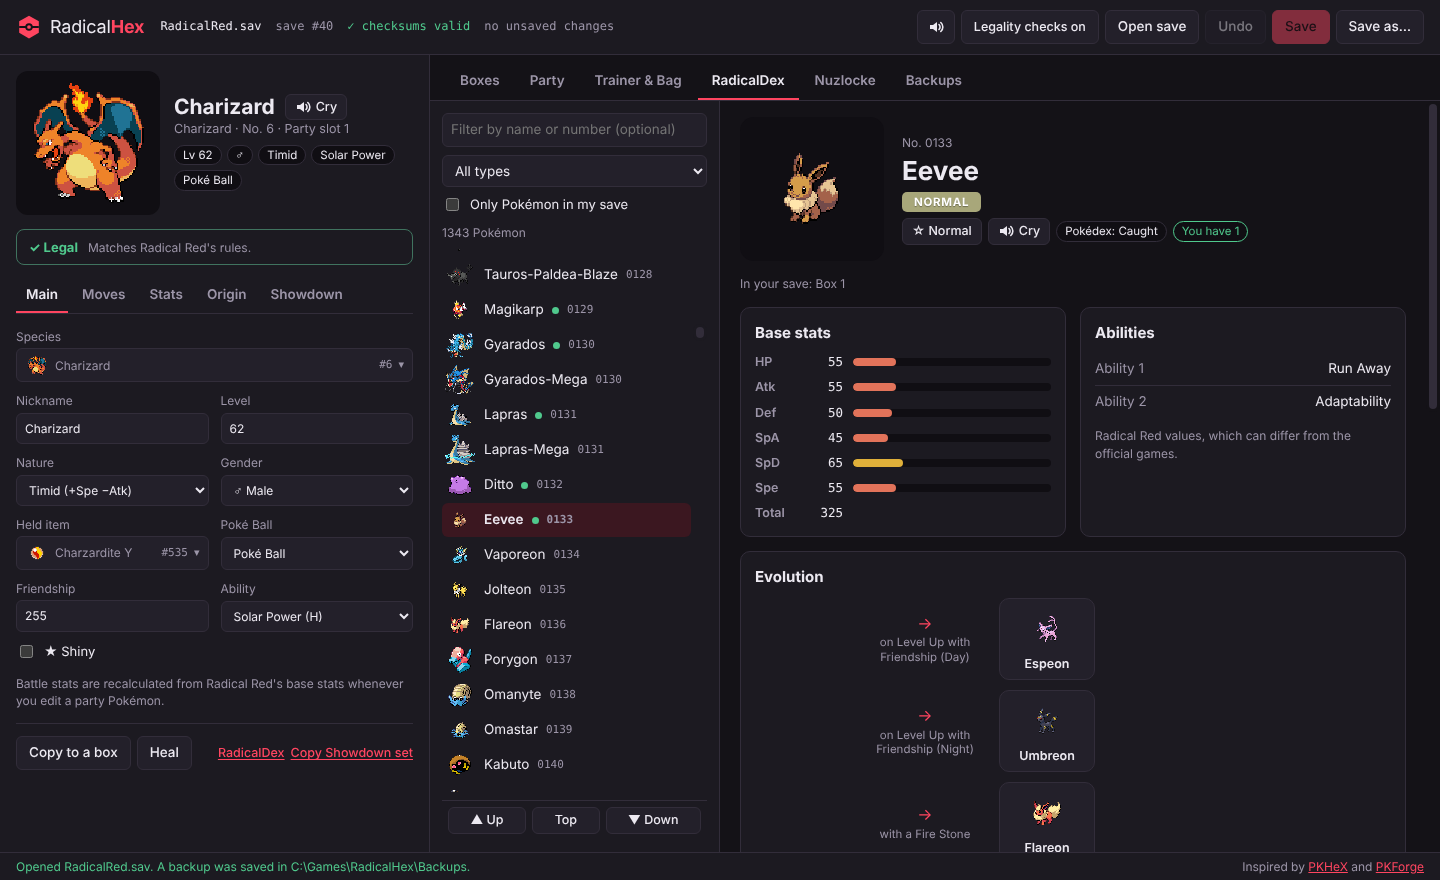
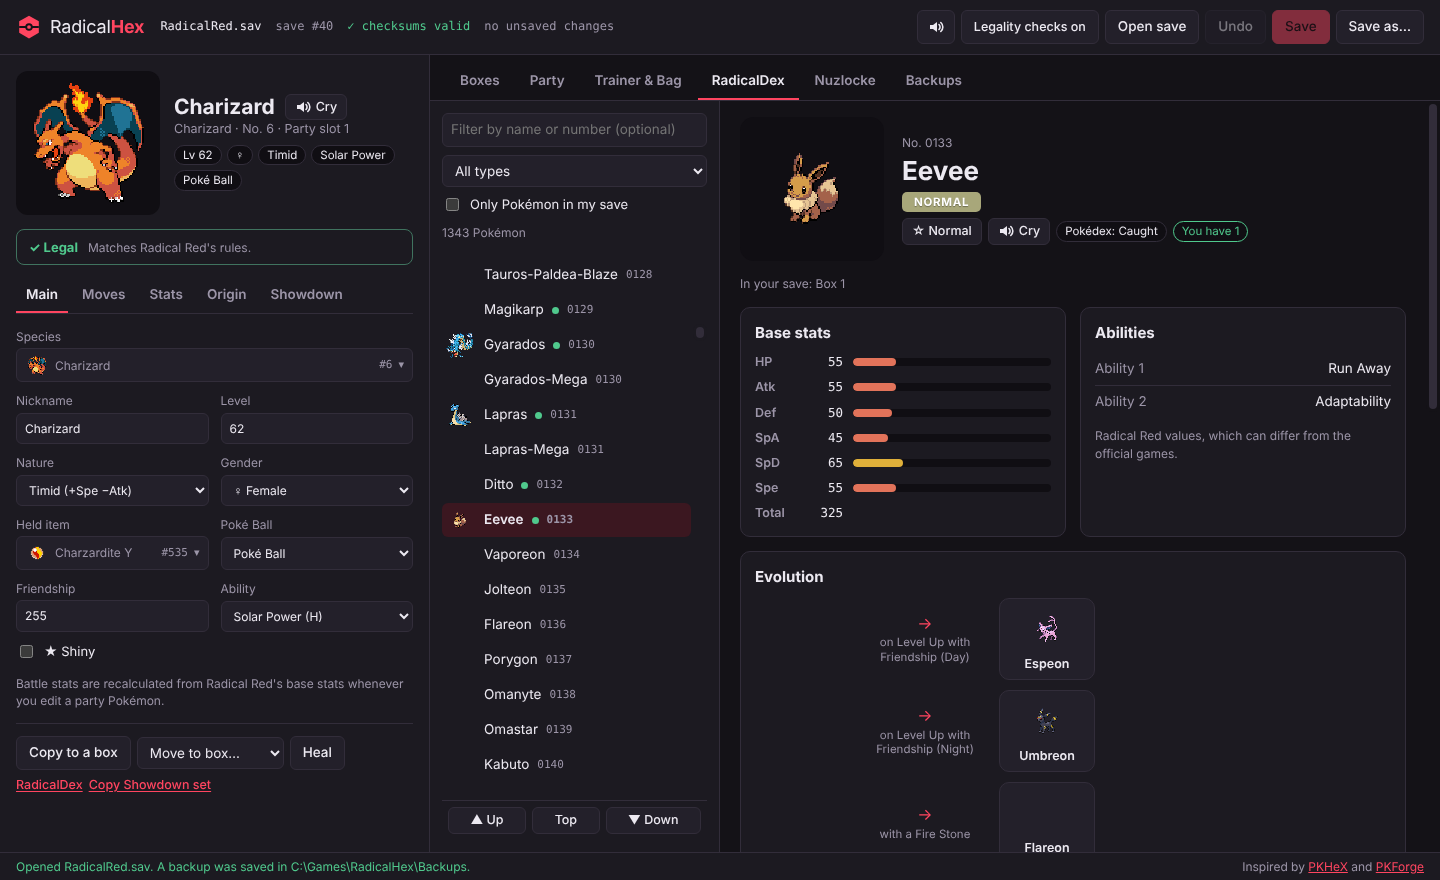
v1.0.7: add to the party, move between boxes and the party
- Click an empty party slot to add a Pokémon straight to the party
- "Move to party" withdraws a box Pokémon to the end of the party like the game does (full HP and PP, no status, stats calculated)
- "Move to box" sends a box Pokémon to another box, or deposits a party Pokémon (the rest of the party moves up); the last non-egg Pokémon has to stay, and full boxes can't be picked
- The save guard now also checks that every slot under the party count holds a Pokémon
- Fix: max PP with PP Ups now uses the game's formula (each PP Up adds 20% of base PP, rounded once), so Heal gives the right PP
- Demo save for screenshots builds its party with the same withdraw code

diff --git a/src/app.js b/src/app.js
@@ -311,7 +311,7 @@
         h('button', { class: 'btn', type: 'button', onclick: maxAllIvs, title: 'Set all six IVs to 31 for every Pokémon in the party and all 25 boxes' }, 'Max IVs on everything')),
       grid,
       box >= 22 ? h('p', { class: 'note' }, 'Boxes 23–25 unlock in Radical Red as your PC fills up. Pokémon placed here are saved, and appear in the game once the box is unlocked.') : null,
-      h('p', { class: 'note' }, 'Drag a Pokémon onto another box slot to move or swap it. Click an empty box slot to add a new Pokémon.'));
+      h('p', { class: 'note' }, 'Drag a Pokémon onto another slot to move or swap it. "Move to box" and "Move to party" in the editor send it further. Click an empty slot to add a new Pokémon.'));
   }
 
   function healParty() {
@@ -328,7 +328,11 @@
     const n = C.partyCount(sv), cards = [];
     for (let s = 0; s < 6; s++) {
       const r = s < n ? C.partyRef(sv, s) : null;
-      if (!filled(r)) { cards.push(h('div', { class: 'pcard empty' }, h('span', { class: 'muted' }, 'Empty party slot'))); continue; }
+      if (!filled(r)) {
+        cards.push(h('button', { type: 'button', class: 'pcard empty' + (sel.party && sel.slot === s ? ' sel' : ''), title: 'Add a Pokémon to your party', onclick: () => select(true, 0, s) },
+          h('span', { class: 'muted' }, '＋ Add a Pokémon')));
+        continue;
+      }
       const sp = M.species(r), st = M.partyStats(r), hp = r.buf[r.off + 0x56] | (r.buf[r.off + 0x57] << 8);
       const pct = st[0] ? Math.max(0, Math.min(100, Math.round(hp / st[0] * 100))) : 0;
       cards.push(h('button', { type: 'button', class: 'pcard' + (sel.party && sel.slot === s ? ' sel' : ''), onclick: () => select(true, 0, s) },
@@ -346,7 +350,7 @@
       h('div', { class: 'row' }, h('div', { class: 'section-title' }, `Party (${n}/6)`), h('span', { class: 'grow' }),
         h('button', { class: 'btn', type: 'button', disabled: !n, title: 'Restore HP, cure status conditions and refill PP for every party Pokémon', onclick: healParty }, 'Heal party')),
       h('div', { class: 'party-cards' }, cards),
-      h('p', { class: 'note' }, 'Click a Pokémon to edit it. Party members are added and removed in the game; Pokémon you add with RadicalHex go into a box.'));
+      h('p', { class: 'note' }, 'Click a Pokémon to edit it, or an empty slot to add one. "Move to box" in the editor puts a party Pokémon in a box.'));
   }
   // Lists every illegal Pokémon in the save; clicking jumps to the next one.
   function illegalButton() {
@@ -404,8 +408,8 @@
     if (!sv) { ed.replaceChildren(); return; }
     const r = selRef();
     if (!filled(r)) {
-      if (sel.party) { ed.replaceChildren(h('div', { class: 'empty-ed' }, h('h3', {}, 'Empty party slot'), h('p', {}, 'Add Pokémon to a box, then withdraw them in the game.'))); return; }
-      ed.replaceChildren(...addForm().filter(Boolean));
+      // An empty party slot adds to the end of the party (the game keeps the party packed).
+      put(ed, addForm());
       return;
     }
     const tabs = [['main', 'Main'], ['moves', 'Moves'], ['stats', 'Stats'], ['origin', 'Origin'], ['showdown', 'Showdown']];
@@ -578,6 +582,27 @@
     for (let k = 0; k < C.BOXES; k++) { const b = (startBox + k) % C.BOXES; for (let s = 0; s < C.SLOTS; s++) if (!filled(C.boxRef(sv, b, s))) return [b, s]; }
     return null;
   }
+  const firstEmptyIn = b => { for (let s = 0; s < C.SLOTS; s++) if (!filled(C.boxRef(sv, b, s))) return s; return -1; };
+  // "Move to box…": any other box with room (a party Pokémon can go to any box). It goes into that box's first empty slot.
+  function moveToBox(r) {
+    const name = M.nickname(r) || spName(M.species(r));
+    return h('select', { id: 'ed-movebox', 'aria-label': 'Move to another box', title: 'Move this Pokémon to the first empty slot of another box', onchange: e => {
+      if (e.target.value === '') return;
+      const b = +e.target.value, s = firstEmptyIn(b);
+      if (s < 0) { status(`${C.boxName(sv, b)} is full.`, 'err'); renderEditor(); return; }
+      const what = `Moved ${name} to ${C.boxName(sv, b)}`;
+      if (sel.party) {
+        const i = sel.slot;
+        if (change(what, () => C.deposit(sv, D, i, C.boxRef(sv, b, s)), { full: true })) { box = b; setTab('boxes'); select(false, b, s); }
+        else renderEditor(); // put the list back on "Move to box…"
+      } else if (change(what, () => C.swap(r, C.boxRef(sv, b, s)), { full: true })) select(false, b, s);
+      else renderEditor();
+    } }, h('option', { value: '' }, 'Move to box…'),
+    Array.from({ length: C.BOXES }, (_, b) => b).filter(b => sel.party || b !== sel.box).map(b => {
+      const n = boxCount(b);
+      return h('option', { value: b, disabled: n >= C.SLOTS }, `${C.boxName(sv, b)} (${n}/${C.SLOTS})${n >= C.SLOTS ? ' full' : ''}`);
+    }));
+  }
   function actionsRow(r) {
     const row = h('div', { class: 'row', style: 'border-top:1px solid var(--line);padding-top:12px' });
     const target = firstEmpty(sel.party ? box : sel.box);
@@ -586,6 +611,7 @@
         const [b, s] = target;
         if (change(`Copied to ${C.boxName(sv, b)}`, () => C.copyToBox(D, r, C.boxRef(sv, b, s)))) select(false, b, s);
       } }, 'Copy to a box'));
+      row.append(moveToBox(r));
       const st = C.partyStatus(r);
       row.append(h('button', { class: 'btn', type: 'button', title: 'Restore HP, cure status conditions and refill PP', onclick: () => {
         if (!change(`Healed ${M.nickname(r)}`, () => C.heal(D, r), { full: true, sfx: 'heal' })) status(`${M.nickname(r)} is already fully healed.`);
@@ -595,6 +621,11 @@
         const [b, s] = target;
         if (change(`Cloned to ${C.boxName(sv, b)} slot ${s + 1}`, () => C.copyToBox(D, r, C.boxRef(sv, b, s)))) select(false, b, s);
       } }, 'Clone'));
+      const full = C.partyCount(sv) >= 6;
+      row.append(h('button', { class: 'btn', type: 'button', disabled: full, title: full ? 'Your party is full (6 Pokémon)' : 'Move this Pokémon to the end of your party', onclick: () => {
+        let i = -1;
+        if (change(`Moved ${M.nickname(r) || spName(M.species(r))} to the party`, () => { i = C.withdraw(sv, D, X, r); }, { full: true })) { setTab('party'); select(true, 0, i); }
+      } }, 'Move to party'), moveToBox(r));
       const rel = h('button', { class: 'btn danger', type: 'button', onclick: () => {
         if (!rel.classList.contains('armed')) { rel.classList.add('armed'); rel.textContent = 'Click again to release'; return; }
         const name = M.nickname(r);
@@ -623,7 +654,7 @@
     const sd = h('textarea', { id: 'add-sd', rows: 7, placeholder: 'Garchomp @ Choice Scarf\nLevel: 50\nJolly Nature\nEVs: 252 Atk / 4 SpD / 252 Spe\n- Earthquake\n- Outrage\n- Stone Edge\n- Fire Fang' }, d.text);
     return [
       h('div', { class: 'hero' }, addPic,
-        h('div', {}, h('div', { class: 'hero-name' }, h('h2', {}, 'Add a Pokémon'), d.species ? cryButton(d.species, addPic) : null), h('div', { class: 'sub' }, `${C.boxName(sv, sel.box)}, slot ${sel.slot + 1}`),
+        h('div', {}, h('div', { class: 'hero-name' }, h('h2', {}, 'Add a Pokémon'), d.species ? cryButton(d.species, addPic) : null), h('div', { class: 'sub' }, sel.party ? `Party slot ${C.partyCount(sv) + 1}` : `${C.boxName(sv, sel.box)}, slot ${sel.slot + 1}`),
           h('p', { class: 'note', style: 'margin-top:6px' }, 'It will belong to you, met at Pallet Town, in the ball you choose.'))),
       h('details', { open: !!d.text }, h('summary', { style: 'cursor:pointer;font-weight:600' }, 'Paste a Showdown set'),
         h('div', { style: 'display:grid;gap:8px;margin-top:8px' }, sd,
@@ -674,7 +705,7 @@
         d.species ? h('p', { class: 'note', style: 'grid-column:1 / -1' }, moveNote(d.species)) : null),
       statsGrid(d.ivs, d.evs, d.nature, (i, v) => { d.ivs[i] = v; }, (i, v, capped) => { d.evs[i] = v; if (capped) status(evCapNote(i, v)); }, null, 'add'),
       h('div', { class: 'row', style: 'border-top:1px solid var(--line);padding-top:12px' },
-        h('button', { class: 'btn primary', type: 'button', onclick: create }, 'Add to box'),
+        h('button', { class: 'btn primary', type: 'button', onclick: create }, sel.party ? 'Add to party' : 'Add to box'),
         h('button', { class: 'btn', type: 'button', onclick: () => { draft = newDraft(); rerender(); } }, 'Clear form'))];
   }
   // Keeps the moves in the set, without duplicates, moved up to fill the first slots.
@@ -696,6 +727,11 @@
     if (!d.species) { status('Choose a species first.', 'err'); return; }
     if (!d.moves.some(x => x)) { status('Give it at least one move.', 'err'); return; }
     const name = spName(d.species);
+    if (sel.party) {
+      let i = -1;
+      if (change(`Added ${name} to the party`, () => { i = C.createInParty(sv, D, X, d); }, { full: true, sfx: 'ball' })) { draft = null; edTab = 'main'; select(true, 0, i); }
+      return;
+    }
     if (change(`Added ${name} to ${C.boxName(sv, sel.box)}`, () => C.createInBox(sv, D, C.boxRef(sv, sel.box, sel.slot), d), { full: true, sfx: 'ball' })) {
       draft = null;
       edTab = 'main';

diff --git a/src/core.js b/src/core.js
@@ -127,7 +127,7 @@
   // File ranges RadicalHex is allowed to change. Anything else changing means a bug, and the save is refused.
   function allowedRanges(sv) {
     const s = sv.sec, r = [];
-    r.push([s[1] + 0x38, s[1] + 0x38 + 6 * PARTY_MON], [s[1] + 0x290, s[1] + 0x296], [s[1] + DEX_SEEN, s[1] + DEX_CAUGHT + DEX_BYTES]);
+    r.push([s[1] + 0x34, s[1] + 0x38 + 6 * PARTY_MON], [s[1] + 0x290, s[1] + 0x296], [s[1] + DEX_SEEN, s[1] + DEX_CAUGHT + DEX_BYTES]);
     for (const id of [0, 1, 2, 3, 5, 6, 7, 8, 9, 10, 11, 12, 13]) r.push([s[id] + 0xFF6, s[id] + 0xFF8]);
     for (let i = 0; i < EXT_SIZE; i++) { const f = extFile(s, i); if (r.length && r[r.length - 1][1] === f) r[r.length - 1][1]++; else r.push([f, f + 1]); }
     for (let id = 5; id <= 13; id++) r.push([s[id], s[id] + WIN[id]]);
@@ -167,6 +167,9 @@
         for (const it of now) if (!validItem(D, it.id) || it.qty < 1 || it.qty > 999) errors.push(`${p.name}: invalid entry (item ${it.id} ×${it.qty}).`);
       }
     }
+    // The game keeps its party packed: every slot below the party count holds a Pokémon.
+    if (check && partyCount(check) !== partyCount(load(sv.original)))
+      for (let i = 0; i < partyCount(check); i++) if (mon.empty(partyRef(check, i))) errors.push(`The party count is ${partyCount(check)} but party slot ${i + 1} is empty.`);
     if (errors.length) throw new Error('RadicalHex stopped the save to protect your file:\n' + errors.join('\n'));
     return out;
   }
@@ -286,7 +289,8 @@
     if (s & 0x40) return 'Paralyzed';
     return '';
   }
-  const maxPp = (D, move, ups) => { const base = D.pp[move] || 0; return base + Math.floor(base / 5) * ups; };
+  // The game's CalculatePPWithBonus: each PP Up adds 20% of the base PP, rounded down once at the end.
+  const maxPp = (D, move, ups) => { const base = D.pp[move] || 0; return base + Math.floor(base * 20 * ups / 100); };
   // Returns true when something changed.
   function heal(D, m) {
     if (!m.party || mon.empty(m)) return false;
@@ -563,6 +567,63 @@
     if (D.species[opts.species].nat) dex.register(sv, D.species[opts.species].nat);
   }
   const release = ref => { if (!ref.party) ref.buf.fill(0, ref.off, ref.off + BOX_MON); };
+
+  // ── Party: withdraw, deposit, add ──
+  // A box Pokémon in the 100-byte party form, like the game's withdraw (CFRU CreateBoxMonFromCompressedMon, then BoxMonToMon):
+  // PP refilled with PP Ups, no status, no mail, level from EXP, battle stats calculated and full HP.
+  function boxToParty(D, X, src, dst) {
+    const sp = mon.species(src), name = (D.species[sp] && D.species[sp].n) || `#${sp}`;
+    if (!X || !X.species[sp]) throw new Error(`RadicalHex has no Radical Red stat data for ${name}, so it can't put it in the party. It can stay in a box.`);
+    if (!growth(D, sp)) throw new Error(`RadicalHex has no level data for ${name}, so it can't put it in the party. It can stay in a box.`);
+    const b = dst.buf, o = dst.off, s = src.buf, so = src.off;
+    b.fill(0, o, o + PARTY_MON);
+    b.set(s.subarray(so, so + 0x1C), o); // PID, OT ID, nickname, language, flags, OT name, markings
+    mon.setSpecies(dst, sp); mon.setItem(dst, mon.item(src)); mon.setExp(dst, mon.exp(src));
+    b[o + 0x28] = s[so + 0x24]; // PP Ups
+    mon.setFriendship(dst, mon.friendship(src)); mon.setBall(dst, mon.ball(src));
+    const mv = mon.moves(src), ups = s[so + 0x24];
+    for (let i = 0; i < 4; i++) { w16(b, o + 0x2C + 2 * i, mv[i]); b[o + 0x34 + i] = mv[i] ? Math.min(255, maxPp(D, mv[i], (ups >> (2 * i)) & 3)) : 0; }
+    mon.setEvs(dst, mon.evs(src));
+    b[o + 0x44] = s[so + 0x32]; b[o + 0x45] = s[so + 0x33]; w16(b, o + 0x46, u16(s, so + 0x34)); w32(b, o + 0x48, mon.ivWord(src));
+    b[o + 0x54] = levelOf(D, src);
+    b[o + 0x55] = 0xFF; // no mail
+    if (!recalcStats(D, X, dst)) throw new Error(`Could not work out ${name}'s battle stats.`);
+    w16(b, o + 0x56, u16(b, o + 0x58)); // full HP
+  }
+  const setPartyCount = (sv, n) => w32(sv.data, sv.sec[1] + 0x34, n);
+  // Moves a box Pokémon to the end of the party. Returns its party slot.
+  function withdraw(sv, D, X, ref) {
+    if (ref.party || mon.empty(ref)) throw new Error('Pick a Pokémon in a box.');
+    const n = partyCount(sv);
+    if (n >= 6) throw new Error('Your party is full (6 Pokémon). Move one to a box first.');
+    boxToParty(D, X, ref, partyRef(sv, n));
+    setPartyCount(sv, n + 1);
+    release(ref);
+    return n;
+  }
+  // Moves a party Pokémon into an empty box slot; the Pokémon after it move up, like the game.
+  function deposit(sv, D, i, dst) {
+    const n = partyCount(sv);
+    if (i >= n) throw new Error('Pick a Pokémon in your party.');
+    let others = 0;
+    for (let k = 0; k < n; k++) if (k !== i && !mon.isEgg(partyRef(sv, k))) others++;
+    if (!others) throw new Error("That's your last Pokémon (eggs don't count). The game needs at least one in the party.");
+    copyToBox(D, partyRef(sv, i), dst);
+    const base = sv.sec[1] + 0x38;
+    sv.data.copyWithin(base + i * PARTY_MON, base + (i + 1) * PARTY_MON, base + n * PARTY_MON);
+    sv.data.fill(0, base + (n - 1) * PARTY_MON, base + n * PARTY_MON);
+    setPartyCount(sv, n - 1);
+  }
+  // Creates a new Pokémon straight in the party (same options as createInBox). Returns its party slot.
+  function createInParty(sv, D, X, opts) {
+    const n = partyCount(sv);
+    if (n >= 6) throw new Error('Your party is full (6 Pokémon). Move one to a box first.');
+    const tmp = { buf: new Uint8Array(BOX_MON), off: 0, party: false };
+    createInBox(sv, D, tmp, opts);
+    boxToParty(D, X, tmp, partyRef(sv, n));
+    setPartyCount(sv, n + 1);
+    return n;
+  }
   function swap(a, b) {
     if (a.party || b.party) throw new Error('Only box slots can be moved.');
     const t = a.buf.slice(a.off, a.off + BOX_MON);
@@ -658,7 +719,7 @@
     load, serialize, build, checksum, allowedRanges,
     partyCount, partyRef, boxRef, boxName, mon, levelOf, setLevel, growth, genderOf, genderRatio, defaultNickname,
     solvePid, setNatureShiny, setGender, abilityName, setAbility, trainer, setMoney, setCoins, readPocket, writePocket, pocketOf,
-    dex, createInBox, release, swap, copyToBox, toShowdown, fromShowdown, heal, partyStatus, STATUS,
+    dex, createInBox, release, swap, copyToBox, withdraw, deposit, createInParty, toShowdown, fromShowdown, heal, partyStatus, STATUS,
     calcStats, recalcStats, legality, isIllegal, expLevel, EV_CAP, EV_TOTAL, clampEvs,
     learnable: (X, sp) => learnSet(X, sp), // Set of move ids the species can know in Radical Red (what legality checks)
     validSpecies, validItem, validMove, encodeText, decodeText,

diff --git a/test/core.test.js b/test/core.test.js
@@ -220,6 +220,53 @@ for (const file of process.argv.slice(2)) {
     for (let i = 0; i < C.partyCount(sv); i++) assert.strictEqual(M.abilityIndex(C.partyRef(back, i)), M.abilityIndex(C.partyRef(sv, i)));
   });
 
+  t('party: deposit and withdraw like the game, add straight to the party, then save', () => {
+    const sv = fresh(), n = C.partyCount(sv);
+    assert.ok(n >= 1, 'save has a party');
+    const keep = r => [M.pid(r), M.otid(r), M.nickname(r), M.otName(r), M.species(r), M.item(r), M.exp(r), M.friendship(r), M.ball(r), M.moves(r).join(), M.evs(r).join(), M.ivWord(r), M.metLocation(r), M.metLevel(r), C.levelOf(D, r)].join('|');
+    const first = C.partyRef(sv, 0), before = keep(first), wasStats = M.partyStats(first).join();
+    const spot = (() => { for (let b = 0; b < C.BOXES; b++) for (let s2 = 0; s2 < C.SLOTS; s2++) if (M.empty(C.boxRef(sv, b, s2))) return C.boxRef(sv, b, s2); })();
+    if (n === 1) assert.throws(() => C.deposit(sv, D, 0, spot), /last Pokémon/);
+    else {
+      const second = keep(C.partyRef(sv, 1));
+      C.deposit(sv, D, 0, spot);
+      assert.strictEqual(C.partyCount(sv), n - 1); assert.strictEqual(keep(C.partyRef(sv, 0)), second, 'the rest moved up');
+      assert.ok(M.empty(C.partyRef(sv, n - 1)), 'old last slot cleared');
+      assert.strictEqual(keep(spot), before, 'deposited Pokémon kept everything');
+      const i = C.withdraw(sv, D, X, spot);
+      assert.strictEqual(i, n - 1); assert.strictEqual(C.partyCount(sv), n); assert.ok(M.empty(spot), 'box slot emptied');
+      const back = C.partyRef(sv, i);
+      assert.strictEqual(keep(back), before, 'withdrawn Pokémon kept everything');
+      assert.strictEqual(M.partyStats(back).join(), wasStats, 'stats recalculated to the same values');
+      assert.strictEqual(back.buf[back.off + 0x56] | (back.buf[back.off + 0x57] << 8), M.partyStats(back)[0], 'full HP');
+      assert.strictEqual(C.partyStatus(back), ''); assert.strictEqual(back.buf[back.off + 0x55], 0xFF, 'no mail');
+      assert.ok(!C.heal(D, back), 'PP already full, like a fresh withdraw');
+    }
+    // Fill the party to 6 by adding straight to it, then a 7th is refused.
+    const sp = D.species.findIndex(x => x.n === 'Garchomp'), moves = [D.moves.indexOf('Earthquake'), D.moves.indexOf('Dragon Claw'), 0, 0];
+    while (C.partyCount(sv) < 6) {
+      const i = C.createInParty(sv, D, X, { species: sp, level: 50, nature: 3, shiny: false, moves, ability: 2 });
+      const r = C.partyRef(sv, i);
+      assert.strictEqual(M.level(r), 50); assert.strictEqual(C.abilityName(X, r), 'Rough Skin');
+      assert.deepStrictEqual(C.legality(D, X, r).filter(p => p.level !== 'info'), [], 'new party Pokémon is legal, stats included');
+    }
+    assert.throws(() => C.createInParty(sv, D, X, { species: sp, level: 50, nature: 3, moves }), /party is full/);
+    assert.throws(() => C.withdraw(sv, D, X, C.boxRef(sv, 0, 0)), /party is full|Pick a Pokémon/);
+    const back = C.load(C.build(sv, D));
+    assert.strictEqual(C.partyCount(back), 6);
+    // Deposit down to the last Pokémon and save again.
+    while (C.partyCount(back) > 1) { const dst = (() => { for (let b = 0; b < C.BOXES; b++) for (let s2 = 0; s2 < C.SLOTS; s2++) if (M.empty(C.boxRef(back, b, s2))) return C.boxRef(back, b, s2); })(); C.deposit(back, D, 0, dst); }
+    assert.throws(() => C.deposit(back, D, 0, C.boxRef(back, 24, 29)), /last Pokémon|empty box slot/);
+    assert.strictEqual(C.partyCount(C.load(C.build(back, D))), 1);
+  });
+
+  t('the save guard refuses a party count with an empty slot under it', () => {
+    const sv = fresh(), n = C.partyCount(sv);
+    if (n >= 6) return;
+    sv.data[sv.sec[1] + 0x34] = n + 1; // a count that points at an empty slot
+    assert.throws(() => C.build(sv, D), /party slot/);
+  });
+
   t('every species marked addable has data and a valid nickname', () => {
     for (let i = 1; i < D.species.length; i++) {
       const s = D.species[i]; if (!s.n || !s.g) continue;

diff --git a/tools/screenshots.js b/tools/screenshots.js
@@ -31,7 +31,6 @@ function demoSave() {
     ['Gyarados', 62, 'Jolly', 'Heavy-Duty Boots', ['Waterfall', 'Bounce', 'Dragon Dance', 'Earthquake'], 0, 'Route 6'],
     ['Venusaur', 60, 'Bold', 'Black Sludge', ['Giga Drain', 'Sludge Bomb', 'Leech Seed', 'Synthesis'], 2, 'Pallet Town'],
   ];
-  w32(0x1000 + 0x34, party.length);
   for (let id = 0; id < 14; id++) {
     const o = id * 0x1000;
     w16(o + 0xFF4, id); w32(o + 0xFF8, 0x08012025); w32(o + 0xFFC, 40);
@@ -46,17 +45,8 @@ function demoSave() {
     ref.buf[ref.off + 0x33] = met(place); ref.buf[ref.off + 0x34] = (ref.buf[ref.off + 0x34] & 0x80) | Math.min(level, 40);
     return ref;
   };
-  // Party: built in a spare box slot, then laid out in the 100-byte party form like the game's withdraw.
-  party.forEach((p, i) => {
-    const src = add(24, 29, p), dst = C.partyRef(sv, i);
-    dst.buf.fill(0, dst.off, dst.off + 100);
-    dst.buf.set(src.buf.subarray(src.off, src.off + 0x1C), dst.off);
-    M.setSpecies(dst, M.species(src)); M.setItem(dst, M.item(src)); M.setExp(dst, M.exp(src));
-    M.setFriendship(dst, 255); M.setBall(dst, M.ball(src)); M.setMoves(dst, M.moves(src), D); M.setEvs(dst, M.evs(src));
-    dst.buf.set(src.buf.subarray(src.off + 0x32, src.off + 0x3A), dst.off + 0x44); // met data and IVs
-    C.setLevel(D, dst, C.levelOf(D, src)); C.recalcStats(D, X, dst); C.heal(D, dst);
-    C.release(src);
-  });
+  // Party: made in a spare box slot, then withdrawn like in the game.
+  party.forEach(p => C.withdraw(sv, D, X, add(24, 29, p)));
   const box1 = [
     ['Garchomp', 58, 'Jolly', 'Choice Scarf', ['Earthquake', 'Outrage', 'Stone Edge', 'Fire Fang'], 2, 'Victory Road'],
     ['Golisopod', 54, 'Adamant', 'Assault Vest', ['First Impression', 'Liquidation', 'Leech Life', 'Knock Off'], 0, 'Route 19'],

diff --git a/src/style.css b/src/style.css
@@ -342,3 +342,4 @@ table.enc tr:last-child td { border-bottom: 0; }
 .hax-toggle { font-size: 12.5px; }
 .hax-toggle.hax { background: #7b2cbf; border-color: #7b2cbf; color: #fff; }
 body.hax-on .top { box-shadow: inset 0 -2px 0 #7b2cbf; }
+#ed-movebox { width: auto; max-width: 100%; flex: 0 1 auto; }

diff --git a/README.md b/README.md
@@ -30,7 +30,8 @@ Every release also includes the full source code (zip and tar.gz), so anyone can
 - All 25 boxes (23–25 unlock in the game as your PC fills up) with normal and shiny sprites, a star for shinies, a mark for perfect IVs and the icon of each held item
 - Add a new Pokémon to any empty slot: species, level, nature, gender, shiny, held item, Poké Ball, friendship, ability, moves, IVs and EVs
 - Paste a Pokémon Showdown set to fill in a new Pokémon, or copy any Pokémon as a Showdown set
-- Drag to move or swap Pokémon, clone them, release them
+- Drag to move or swap Pokémon within a box, clone them, release them
+- **Move to box** sends a Pokémon to the first free slot of any other box, and **Move to party** puts it at the end of your party
 - Max IVs on every Pokémon in one click
 
 ### Party
@@ -38,6 +39,8 @@ Every release also includes the full source code (zip and tar.gz), so anyone can
 
 - Your six party Pokémon as cards with sprite, level, nature, held item, HP, status and moves
 - **Heal**: restore HP (fainted Pokémon included), cure poison, burn, sleep, freeze and paralysis, and refill PP, for one Pokémon or the whole party
+- **Add a Pokémon straight to your party**: click an empty party slot
+- **Move to box** puts a party Pokémon in a box, and the rest of the party moves up, like in the game. Your last Pokémon has to stay (eggs don't count)
 - Edit them like any other Pokémon, or copy them into a box. Their battle stats update automatically when you change level, nature, IVs or EVs
 
 ### Editing a Pokémon
@@ -111,7 +114,7 @@ A Pokédex built from Radical Red's own data, so it matches the hack rather than
 4. Load the save in your emulator.
 
 Good to know:
-- New Pokémon go into boxes. Withdraw them in the game to use them in your party.
+- New Pokémon can go into a box or straight into your party. A Pokémon moved into the party gets full HP and PP, the same as withdrawing it in the game.
 - Party Pokémon store their battle stats separately. RadicalHex recalculates them for you when you edit a party Pokémon, and the Stats tab has a **Recalculate stats** button.
 - Like the main games, a Pokémon in Radical Red has ability 1, ability 2 or its hidden ability, and RadicalHex lets you pick any of the ones its species has.
 
